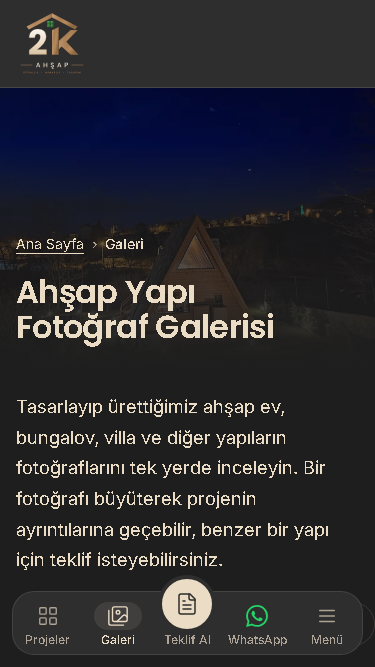
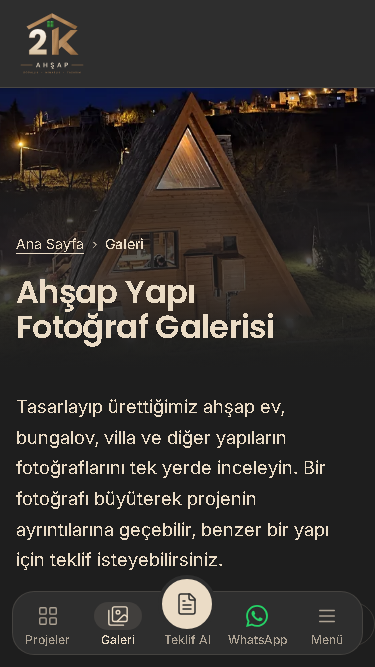
Galeri başlık bandına telefon kadrajı: A-frame ve ışıklı pencere ilk ekranda
- SayfaBasi'na foto.mobil eklendi: ≤ 640px'te fotoğraf odak noktası etrafında sabit yakınlaştırılır
  (alt kenar odaklı, görsel kutuyu her yerde kaplar); ≥ 641px değişmez. sizes büyük kaynağı seçtirir.
- Galeri: a-frame-bungalov-01, ölçek 1,8, odak 54.5% 100% (projenin tek dış çekimi). 375×667, 390×844 ve
  390×664'te A-frame tepesi kutunun üstünde, ışıklı pencere başlık bloğunun üstünde.
- Galeri 375px referansı ve son görüntüsü yenilendi; marka-stili ve docs/baslik-bandi güncellendi.

Changed region(s): [[0.0, 0.1199, 1.0, 0.4798], [0.9387, 0.3898, 1.0, 0.4798], [0.792, 0.2999, 0.8213, 0.3298]]

diff --git a/.claude/skills/marka-stili/SKILL.md b/.claude/skills/marka-stili/SKILL.md
@@ -245,7 +245,7 @@ Hareket sakin ve tek seferliktir; içeriği öne çıkarır, dikkat dağıtmaz. 
 - Hero fotoğrafları `scripts/hero-gorseli.mjs` ile üretilir (kadraj, sıcak renk düzeltmesi, netlik; kaynak dosyaya dokunulmaz).
 - Hero görseli LCP öğesidir: `loading="eager"`, `fetchpriority="high"`, WebP/AVIF, `srcset` ile boyutlandırılmış. Lazy-load yapılmaz.
 - **Alt sayfa başlık bandı** (müşteri onaylı, 15 Ekim 2026; `docs/baslik-bandi/`): Breadcrumb, tek H1 ve giriş metni her alt sayfada tek ortak bileşenden gelir: `src/components/SayfaBasi.astro`. Sayfalar kendi bandını yazmaz. İki varyant:
-  - **Fotoğraflı** (`foto` verilir): Projeler, Galeri, İletişim, SSS ve kategori sayfaları (kategorinin vitrin projesinin kapak fotoğrafı). Hakkımızda açılışının kısa hali: mobil 42svh, ≥ 768px 45svh, ≥ 1024px 50svh. Breadcrumb ve H1 fotoğrafın sol altında, giriş metni fotoğrafın altında düz gece zeminde (krem). Karartma Hakkımızda ve ana sayfa hero'suyla birebir aynıdır; yeni karartma icat edilmez, fotoğrafın üstünde sert kenarlı bant/blok olmaz. Fotoğraf yalnızca proje galerilerinde yayında olan, bitmiş, kadrajı temiz bir fotoğraftır (naylon, şantiye, dağınıklık yok); akşam/gece ışıklı olanlar önceliklidir.
+  - **Fotoğraflı** (`foto` verilir): Projeler, Galeri, İletişim, SSS ve kategori sayfaları (kategorinin vitrin projesinin kapak fotoğrafı). Hakkımızda açılışının kısa hali: mobil 42svh, ≥ 768px 45svh, ≥ 1024px 50svh. Breadcrumb ve H1 fotoğrafın sol altında, giriş metni fotoğrafın altında düz gece zeminde (krem). Karartma Hakkımızda ve ana sayfa hero'suyla birebir aynıdır; yeni karartma icat edilmez, fotoğrafın üstünde sert kenarlı bant/blok olmaz. Fotoğraf yalnızca proje galerilerinde yayında olan, bitmiş, kadrajı temiz bir fotoğraftır (naylon, şantiye, dağınıklık yok); akşam/gece ışıklı olanlar önceliklidir. Telefonda yapı başlık bloğunun ve erimenin altında kalıyorsa (ör. Galeri) `foto.mobil` ile yalnızca ≤ 640px'te odak noktası etrafında sabit yakınlaştırılır; yapı ve ışıklı kısmı kutunun üstünde kalır.
   - **Sade** (`foto` verilmez): Teklif Al, proje detayı (altında büyük proje galerisi olduğu için fotoğraf tekrarlanmaz) ve yasal sayfalar. Fotoğrafsız gece zemin; antrasit header'dan ton farkıyla ayrılır, çizgi yoktur. Breadcrumb, altında kısa (64px) 1px ahşap ayraç ve büyük H1 (`clamp(2.25rem, 6vw, 4.5rem)`). ≥ 1024px'te başlık solda, giriş metni sağda, ikisi alta hizalı.
   - Giriş metnindeki tireli sözcükler ("e-postayla") satır sonunda tireden bölünmez (bileşen sözcüğü bölünmez span'e alır).
 - **Hakkımızda istisnası** (müşteri onaylı, 15 Ekim 2026; `docs/hakkimizda/yeniden-tasarim/`, açılış `docs/hakkimizda/acilis-v3/`): Açılış tam genişlikte bir proje fotoğrafıdır (mobil 60svh, ≥ 768px 55svh, ≥ 1024px 70svh). Breadcrumb ve H1 fotoğrafın sol altında durur; karartma ana sayfa hero'sununkiyle birebir aynıdır (≥ 641px'te `--karartma-yatay` + alt %30'un zemine erimesi; telefonda alt %45'in erimesi + başlık bloğuna bağlı %70 rampa). Fotoğrafı yatayda kesen sert kenarlı bant kullanılmaz. Tanıtım metni fotoğrafın altında, düz gece zeminde durur. Header antrasit kalır.

diff --git a/docs/baslik-bandi/README.md b/docs/baslik-bandi/README.md
@@ -135,9 +135,24 @@ Alt kenar: fotoğraf kutusunun son iki satırı ve altındaki satırın ortalama
 | Teklif Al | 375×667 | evet (205–283) | fotoğraf yok | | |
 | Proje detayı | 375×667 | evet (229–345) | fotoğraf yok | | |
 
-Hiçbir görüntüde fotoğrafı yatayda kesen sert kenar yok (gözle de kontrol edildi). Bilinen sınırlama: Galeri'nin gece
-fotoğrafı telefonda kutuyla aynı oranda olduğu için A-frame alttaki erimenin altında kalır; telefonda koyu gökyüzü ve
-köy ışıkları görünür, yapı belirgin değildir.
+Hiçbir görüntüde fotoğrafı yatayda kesen sert kenar yok (gözle de kontrol edildi).
+
+### Galeri telefon kadrajı (müşteri isteği, 15 Ekim 2026)
+
+İlk halde Galeri'nin gece fotoğrafı telefonda kutuyla aynı oranda olduğu için A-frame başlık bloğunun ve erimenin
+altında kalıyordu. Aynı projenin diğer fotoğrafları iç mekân ya da yapım aşaması (tek dış çekim 01), daha büyük
+kaynak da yok; bu yüzden ≤ 640px'te aynı fotoğraf odak noktası etrafında sabit yakınlaştırılır
+(`foto.mobil`: ölçek 1,8, odak `54.5% 100%`; Hakkımızda hikâye fotoğrafındaki gibi hareket değil). Odak alt kenarda
+olduğu için görsel kutuyu her yerde kaplar; masaüstü ve tablet (≥ 641px) değişmez. `sizes` büyük kaynağı seçtirir.
+
+| Ekran | A-frame tepesi (kutu içi y) | Işıklı pencere | Başlık bloğu başı | H1 ilk ekranda | En kötü satır | Alt kenar |
+|---|---|---|---|---|---|---|
+| 375×667 (`son/galeri-375x667.png`) | 7 | 38–104 | 118 | evet (274–344) | %29,6 (y 338, H1 harfleri) | 30,0 / 30,0 → 30,0 |
+| 390×844 | 10 | 48–131 | 192 | evet (348–418) | %28,5 (y 412, H1 harfleri) | 30,0 / 30,0 → 30,0 |
+| 390×664 (iPhone Safari görünür alanı) | 2 | 33–102 | 117 | evet (273–343) | %28,5 (y 337, H1 harfleri) | 30,0 / 30,2 → 30,0 |
+
+gorsel-kontrol: yalnızca Galeri 375px farklı (%11,5; farklı satırlar 88–388, yani yalnızca fotoğraf kutusu), diğer 44
+çekim geçti; referansı yenilendi. form-kontrol temiz.
 
 ### Güvenli mod
 
